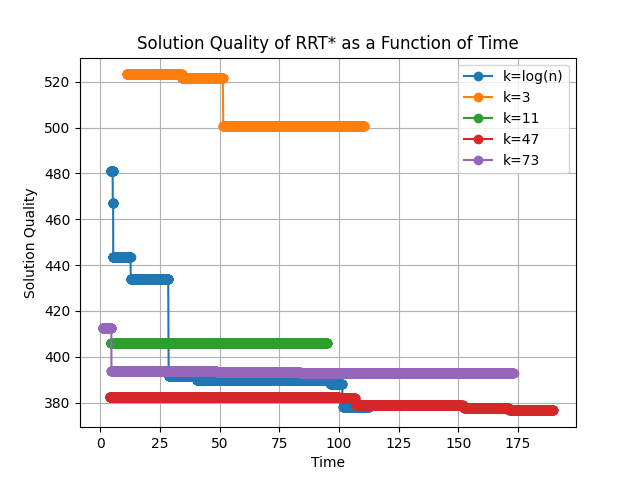
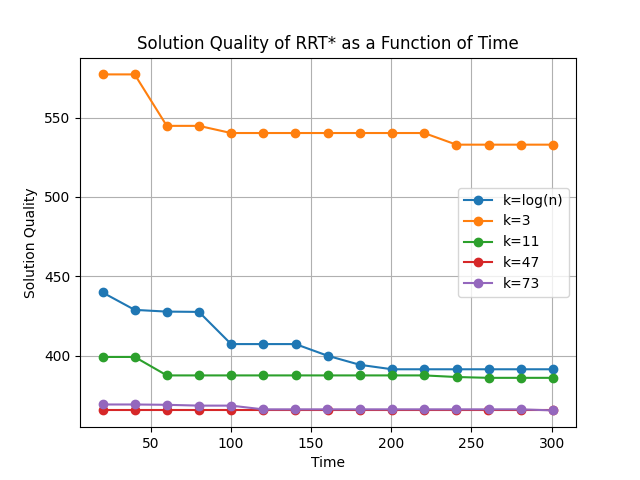
added additional solution quality plots

diff --git a/run_statistics.py b/run_statistics.py
@@ -210,6 +210,49 @@ def RRT_STAR_compute_solution_quality_plot(args):
 
     # Plot solution quality for representative runs
     plot_solution_quality(representative_times, representative_costs, k_values)
+    
+def plot_solution_quality_for_each_k_i(times, costs, k_value, i, figure, path):
+    if k_value == 1:
+        figure.plot(times, costs, label=f'k=log(n)', marker='o', linestyle='-')     
+    else:
+        figure.plot(times, costs, label=f'k={k_value}', marker='o', linestyle='-')
+    figure.grid(True)
+    figure.legend()
+    # figure.show()
+    
+def RRT_STAR_compute_solution_quality_plot_for_each_k_i(args):
+    # Define parameters
+    k_values = [1, 3, 11, 47, 73]  # Choose several values for k
+    num_runs = 10
+    planning_env = MapEnvironment(json_file=args.map)  # Initialize your planning environment
+
+    times = {}
+    costs = {}
+    plots = {}
+    for i in range(num_runs):
+        plots[i] = plt.figure(i)
+        (plots[i]).xlabel('Time')
+        (plots[i]).ylabel('Solution Quality')
+        (plots[i]).title(f'Solution Quality of RRT* as a Function of Time')
+    path = f'images\\{args.planner}\\{args.ext_mode}\\bias={args.goal_prob}\\solution_quality'
+    if not os.path.exists(path):
+        os.makedirs(path)
+    for k_value in k_values:
+        args.k = k_value
+        costs[k_value] = []
+        times[k_value] = []
+        for _ in range(num_runs):
+            costs_computed, times_computed = run_rrt_star_solution(planning_env, args)
+            plot_solution_quality_for_each_k_i(times_computed, costs_computed, k_value,i, plots[k_value][i], )
+            
+    for i in range(num_runs):
+        plots[k_value][i] = plt.figure(i)
+        (plots[k_value][i]).xlabel('Time')
+        (plots[k_value][i]).ylabel('Solution Quality')
+        (plots[k_value][i]).title(f'Solution Quality of RRT* as a Function of Time')
+        filename = f'figure_i={i}.png'
+        filepath = os.path.join(path, filename)
+        plt.savefig(filepath)
 
 if __name__ == "__main__":
     parser = argparse.ArgumentParser(description='script for testing planners')
